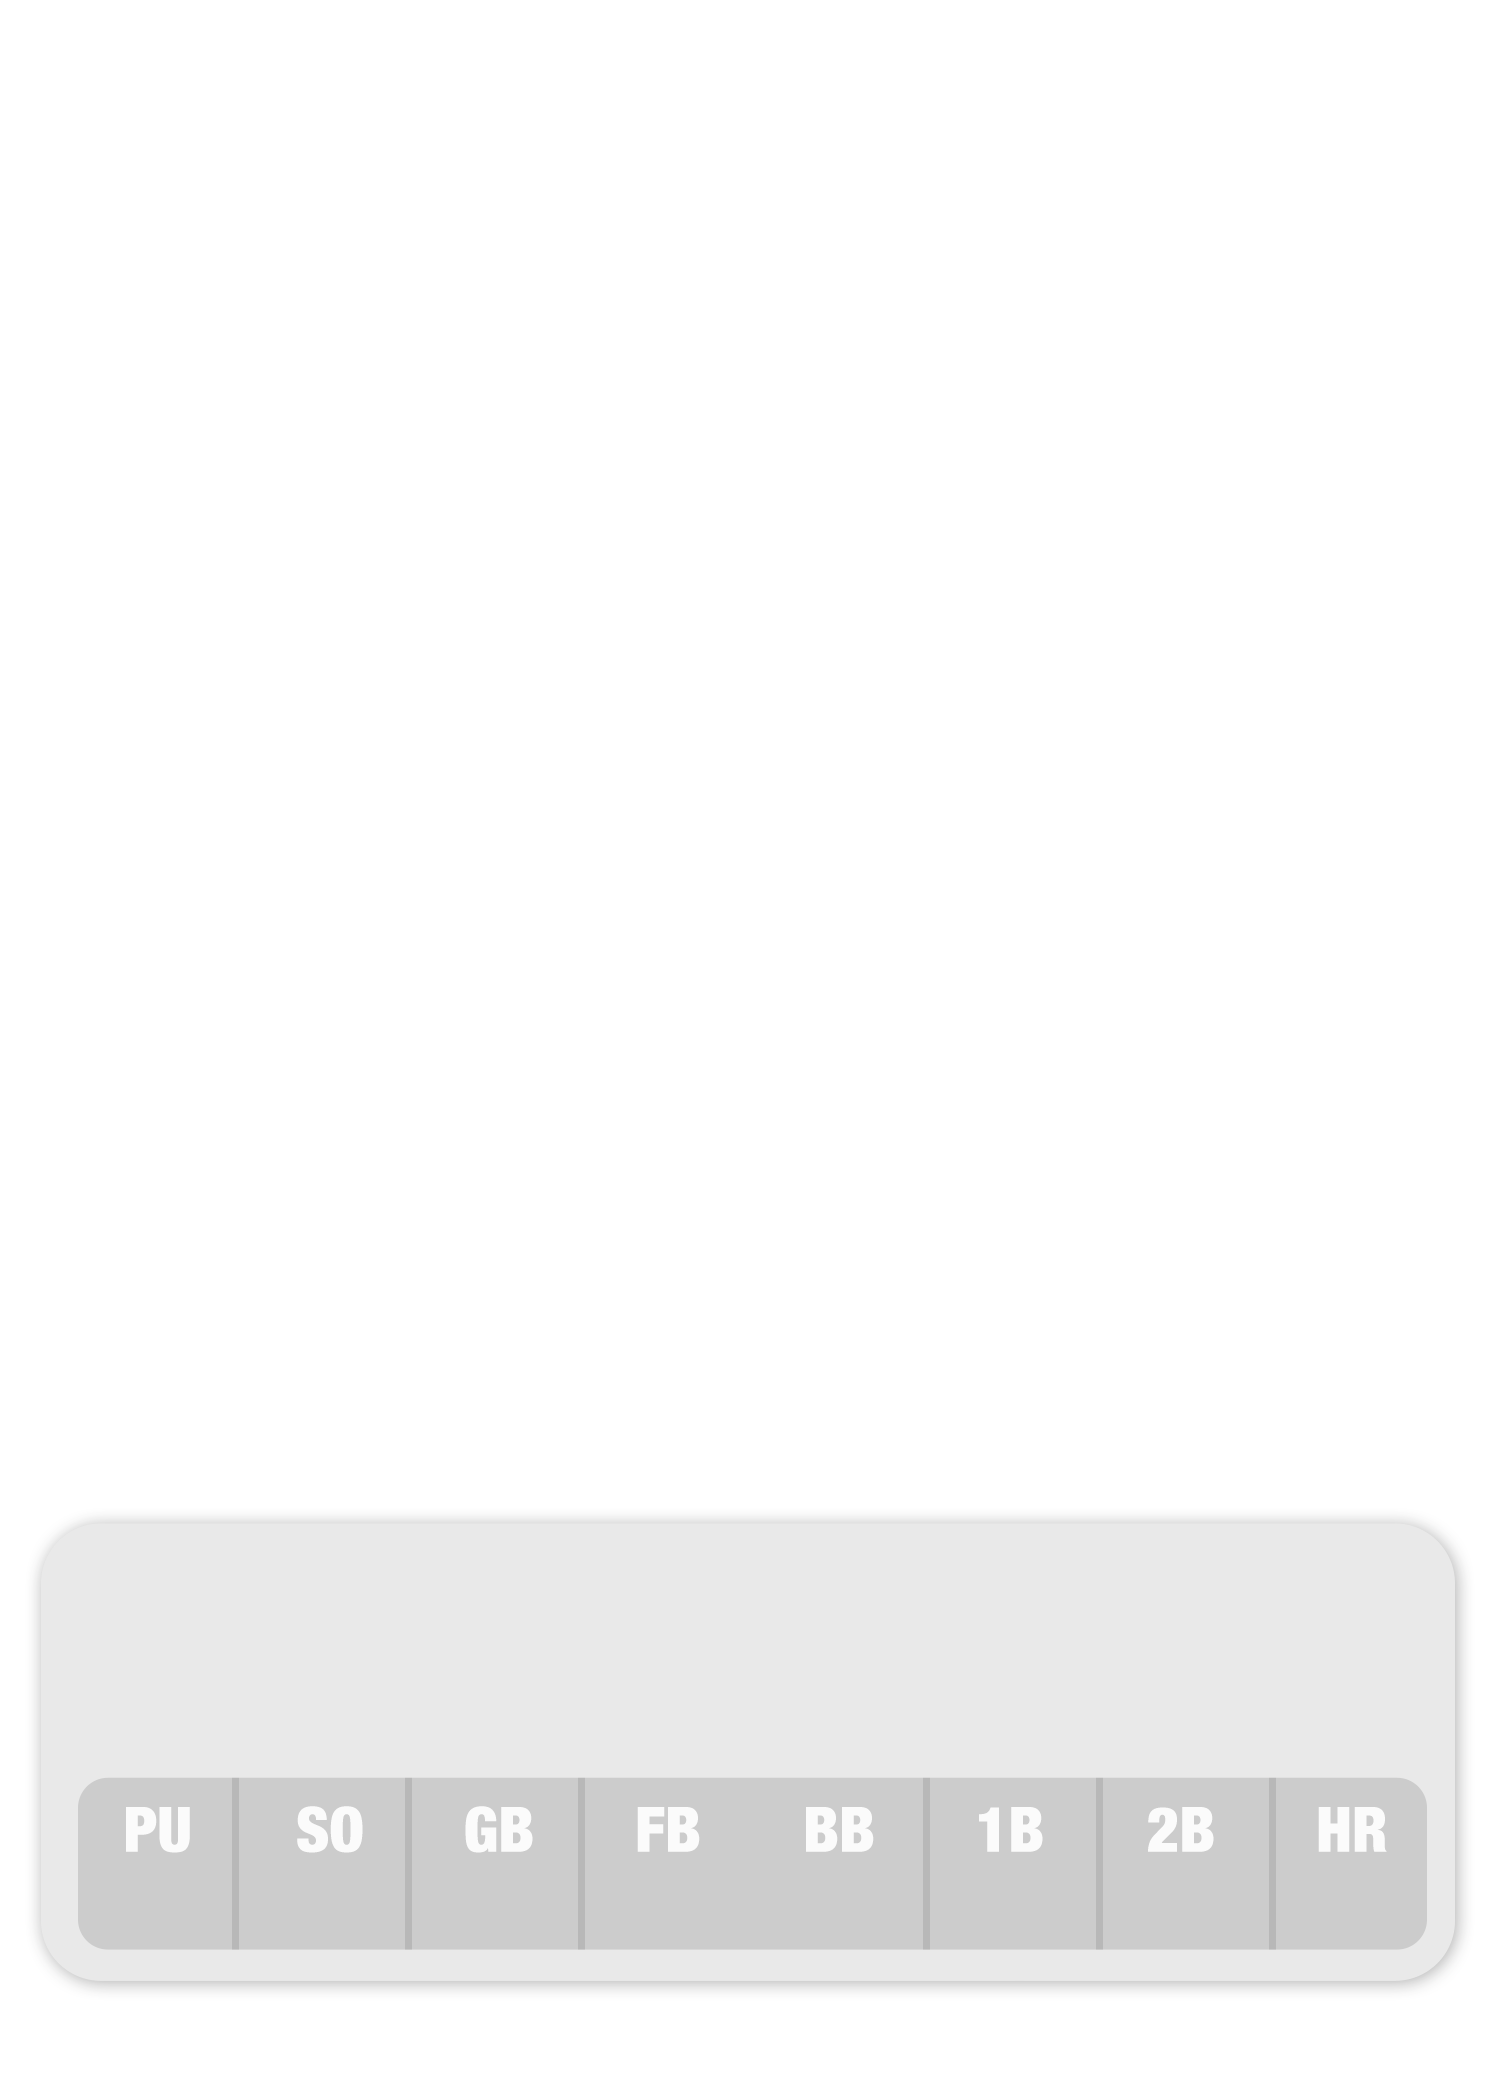
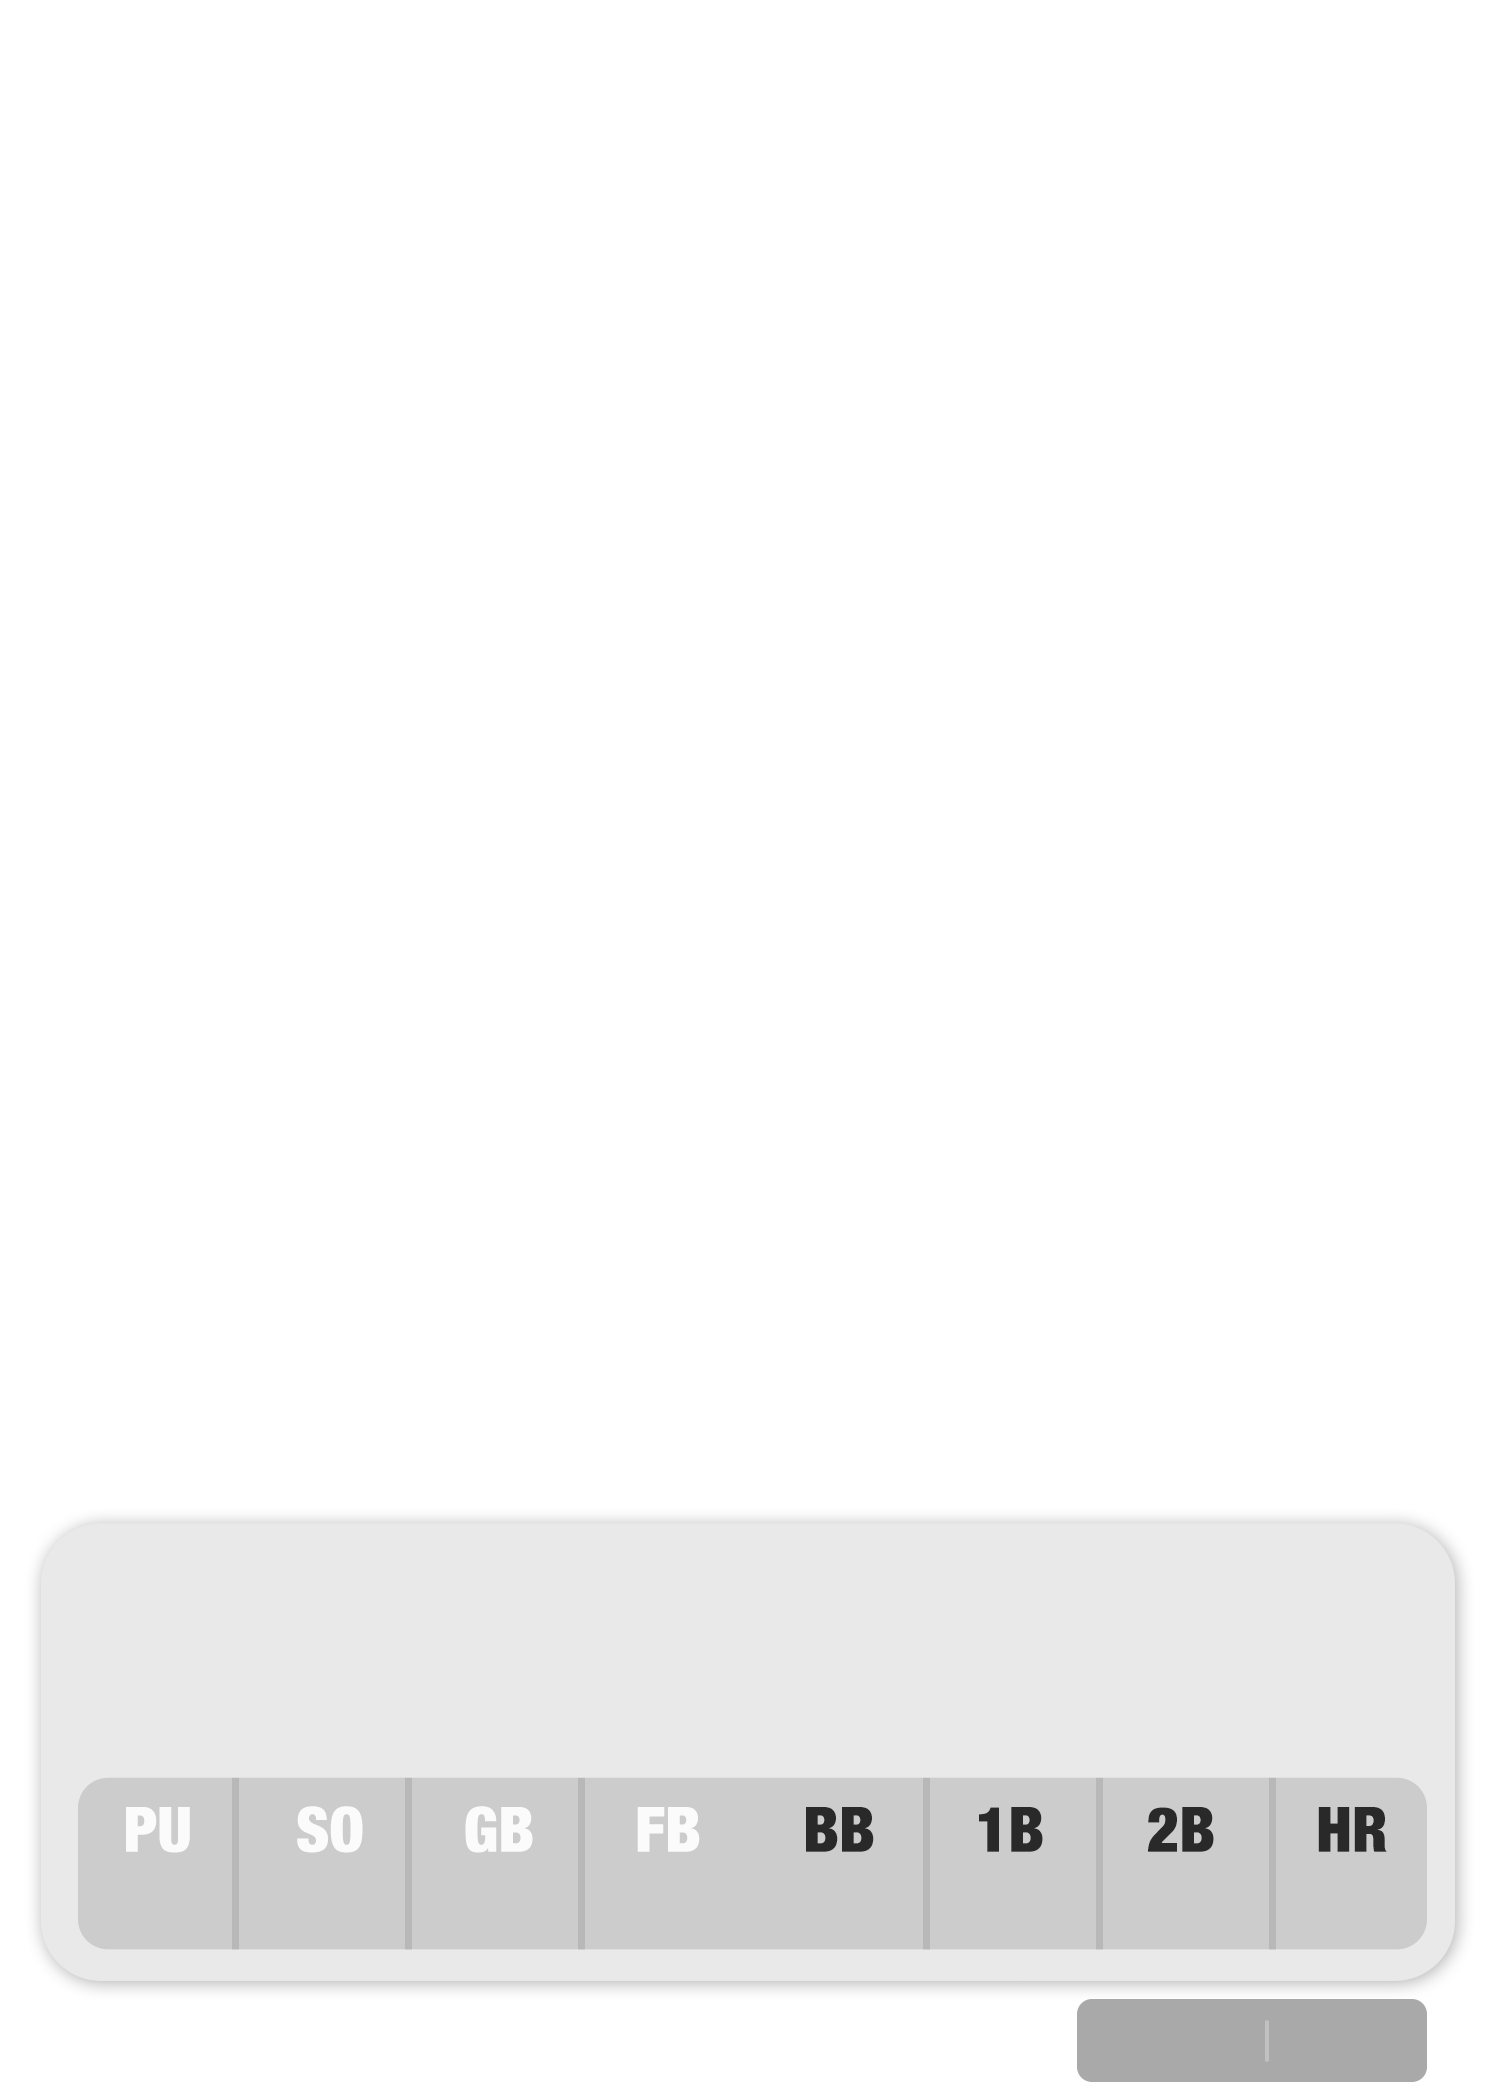
Update chart, metadata, sets, style for 2022 set

diff --git a/mlb_showdown_bot/showdown_player_card_generator.py b/mlb_showdown_bot/showdown_player_card_generator.py
@@ -1858,15 +1858,15 @@ class ShowdownPlayerCardGenerator:
 
         return accuracy_data
 
-    def __player_metadata_summary_text(self, is_horizontal=False, delimeter=' '):
+    def __player_metadata_summary_text(self, is_horizontal=False, return_as_list=False):
         """Creates a multi line string with all player metadata for card output.
 
         Args:
           is_horizontal: Optional boolean for horizontally formatted text (04/05)
-          delimeter: Optional delimeter (ex: ',' , '|') to separate categories
+          return_as_list: Boolean for return type
 
         Returns:
-          String of output text for player info + stats
+          String/list of output text for player info + stats
         """
         positions_string = self.__position_and_defense_as_string(is_horizontal=is_horizontal)
 
@@ -1874,13 +1874,20 @@ class ShowdownPlayerCardGenerator:
         speed = f'Speed {self.speed_letter} ({self.speed})' if int(self.context_year) < 2022 else f'SPD {self.speed}'
         ip_or_speed = speed if not self.is_pitcher else ip
         if is_horizontal:
-            final_text = '{points} PT. {delimeter} {item2} {delimeter} {hand} {delimeter} {item4}'.format(
-                points=self.points,
-                item2=positions_string if self.is_pitcher else speed,
-                hand=self.hand,
-                item4=ip if self.is_pitcher else positions_string,
-                delimeter=delimeter
-            )
+            if return_as_list:
+                final_text = [
+                    f'{self.points} PT.',
+                    positions_string if self.is_pitcher else speed,
+                    self.hand,
+                    (ip if self.is_pitcher else positions_string),
+                ]
+            else:
+                final_text = '{points} PT.   {item2}   {hand}   {item4}'.format(
+                    points=self.points,
+                    item2=positions_string if self.is_pitcher else speed,
+                    hand=self.hand,
+                    item4=ip if self.is_pitcher else positions_string
+                )
         else:
 
             final_text = """\
@@ -1894,7 +1901,8 @@ class ShowdownPlayerCardGenerator:
                 line3=ip_or_speed if self.is_pitcher else positions_string,
                 points=self.points
             )
-        final_text = final_text.upper() if self.context in ['2002','2004','2005'] else final_text
+        if not return_as_list:
+            final_text = final_text.upper() if self.context in ['2002','2004','2005'] else final_text
         return final_text
 
     def __position_and_defense_as_string(self, is_horizontal=False):
@@ -1979,6 +1987,12 @@ class ShowdownPlayerCardGenerator:
         else:
             chart_cords = sc.IMAGE_LOCATIONS['chart'][str(self.context_year)]
         player_image.paste(color, chart_cords, chart_image)
+
+        # STYLE (IF APPLICABLE)
+        if self.style != '':
+            style_img_path = os.path.join(os.path.dirname(__file__), 'templates', f'{self.style.upper()}.png')
+            style_img = Image.open(style_img_path)
+            player_image.paste(style_img,sc.IMAGE_LOCATIONS['style'][self.context_year],style_img)
 
         # BOT VERSION
         version_image = self.__version_image()
@@ -2354,6 +2368,11 @@ class ShowdownPlayerCardGenerator:
                 paste_location = (paste_location[0] + 15, paste_location[1])
 
             # ADD CHART ROUNDED RECT
+            container_img_black = Image.open(os.path.join(os.path.dirname(__file__), 'templates', f'{self.context_year}-ChartOutsContainer-{type}.png'))
+            container_img = self.__color_overlay_to_img(img=container_img_black,color=sc.TEAM_COLOR_PRIMARY[self.team])
+            text_img = Image.open(os.path.join(os.path.dirname(__file__), 'templates', f'{self.context_year}-ChartOutsText-{type}.png'))
+            template_image.paste(container_img, (0,0), container_img)
+            template_image.paste(text_img, (0,0), text_img)
         else:
             command_image_name = '{context}-{type}-{command}.png'.format(
                 context = year,
@@ -2638,45 +2657,45 @@ class ShowdownPlayerCardGenerator:
             # DONT WANT TO RETURN A COLOR (BECAUSE IT'S MULTI-COLORED)
             # PASS THE IMAGE ITSELF AS THE COLOR
             color = metadata_image
-        elif self.context_year in ['2004', '2005']:
-            # 2004 & 2005
-
-            metadata_font_path = os.path.join(os.path.dirname(__file__), 'fonts', 'Helvetica Neue 77 Bold Condensed.ttf')
-            metadata_font = ImageFont.truetype(metadata_font_path, size=144)
-            metadata_text_string = self.__player_metadata_summary_text(is_horizontal=True)
-            metadata_text = self.__text_image(
-                text = metadata_text_string,
-                size = (3600, 900),
-                font = metadata_font,
-                fill = sc.COLOR_WHITE,
-                rotation = 0,
-                alignment = "left",
-                padding = 0,
-                has_border = True,
-                border_color = sc.COLOR_BLACK,
-                border_size = 9
-            )
-            metadata_image = metadata_text.resize((1200,300), Image.ANTIALIAS)
-            # DONT WANT TO RETURN A COLOR (BECAUSE IT'S MULTI-COLORED)
-            # PASS THE IMAGE ITSELF AS THE COLOR
-            color = metadata_image
         else:
             # 2022+
-            metadata_font_path = os.path.join(os.path.dirname(__file__), 'fonts', 'Helvetica Neue 77 Bold Condensed.ttf')
-            metadata_font = ImageFont.truetype(metadata_font_path, size=160)
-            metadata_text_string = self.__player_metadata_summary_text(is_horizontal=True, delimeter=' ')
-            metadata_text = self.__text_image(
-                text = metadata_text_string,
-                size = (3600, 900),
-                font = metadata_font,
-                fill = sc.COLOR_WHITE,
-                rotation = 0,
-                alignment = "left",
-                padding = 0,
-            )
-            metadata_image = metadata_text.resize((1200,300), Image.ANTIALIAS)
-            # DONT WANT TO RETURN A COLOR (BECAUSE IT'S MULTI-COLORED)
-            # PASS THE IMAGE ITSELF AS THE COLOR
+            metadata_image = Image.new('RGBA', (1400, 200), 255)
+            metadata_font_path = os.path.join(os.path.dirname(__file__), 'fonts', 'HelveticaNeueCondensedBold.ttf')
+            metadata_font = ImageFont.truetype(metadata_font_path, size=170)
+            metadata_text_list = self.__player_metadata_summary_text(is_horizontal=True, return_as_list=True)
+            current_x_position = 0
+            for index, category in enumerate(metadata_text_list):
+                category_length = len(metadata_text_list)
+                is_last = (index + 1) == category_length
+                metadata_text = self.__text_image(
+                    text = category,
+                    size = (1500, 900),
+                    font = metadata_font,
+                    fill = sc.COLOR_WHITE,
+                    rotation = 0,
+                    alignment = "left",
+                    padding = 0,
+                )
+                metadata_text = metadata_text.resize((500,300), Image.ANTIALIAS)
+                metadata_image.paste(metadata_text, (int(current_x_position),0), metadata_text)
+                category_font_width = metadata_font.getsize(category)[0] / 3.0
+                current_x_position += category_font_width
+                if not is_last:
+                    # DIVIDER
+                    divider_text = self.__text_image(
+                        text = '|',
+                        size = (900, 900),
+                        font = metadata_font,
+                        fill = sc.COLOR_WHITE,
+                        rotation = 0,
+                        alignment = "left",
+                        padding = 0,
+                    )
+                    divider_text = divider_text.resize((300,300), Image.ANTIALIAS)
+                    metadata_image.paste((255,255,255,50), (int(current_x_position) + 30, 0), divider_text)
+                    current_x_position += 65
+                
+
             color = sc.COLOR_BLACK
 
         return metadata_image, color
@@ -2707,8 +2726,10 @@ class ShowdownPlayerCardGenerator:
         chart_string = ''
         # NEED IF 04/05
         chart_text = Image.new('RGBA',(6300,720))
-        chart_text_x = 150 if self.is_pitcher else 141
+        chart_text_addition = -20 if int(self.context_year) >= 2022 else 0
+        chart_text_x = 150 + chart_text_addition if self.is_pitcher else 141
         for category in self.__chart_categories():
+            is_out_category = category.lower() in ['pu','so','gb','fb']
             range = self.chart_ranges['{} Range'.format(category)]
             # 2004/2005 CHART IS HORIZONTAL. PASTE TEXT ONTO IMAGE INSTEAD OF STRING OBJECT.
             if is_horizontal:
@@ -2723,8 +2744,9 @@ class ShowdownPlayerCardGenerator:
                     border_color = sc.COLOR_BLACK,
                     border_size = 9
                 )
-                chart_text.paste(range_text, (chart_text_x, 0), range_text)
-                pitcher_spacing = 531 if is_wotc else 515
+                color_range = range_text if is_wotc or is_out_category else sc.COLOR_BLACK
+                chart_text.paste(color_range, (chart_text_x, 0), range_text)
+                pitcher_spacing = 531 if is_wotc else 510
                 hitter_spacing = 468 if is_wotc else 445
                 chart_text_x += pitcher_spacing if self.is_pitcher else hitter_spacing
             else:
@@ -2733,9 +2755,8 @@ class ShowdownPlayerCardGenerator:
         # CREATE FINAL CHART IMAGE
         if is_horizontal:
             # COLOR IS TEXT ITSELF
-            is_wotc = self.context_year in ['2004','2005']
             chart_text = chart_text.resize((2100,240), Image.ANTIALIAS)
-            color = chart_text if is_wotc else sc.COLOR_BLACK
+            color = chart_text
         else:
             spacing = int(sc.TEXT_SIZES['chart_spacing'][self.context_year])
             chart_text = self.__text_image(
@@ -2764,7 +2785,8 @@ class ShowdownPlayerCardGenerator:
 
         # FONT FOR SET
         helvetica_neue_cond_bold_path = os.path.join(os.path.dirname(__file__), 'fonts', 'Helvetica Neue 77 Bold Condensed.ttf')
-        font_size = 100 if self.is_multi_year and self.context_year == '2003' else 135
+        base_font_size = 135 if int(self.context_year) < 2022 else 180
+        font_size = 100 if self.is_multi_year and self.context_year == '2003' else base_font_size
         set_font = ImageFont.truetype(helvetica_neue_cond_bold_path, size=font_size)
 
         set_image = Image.new('RGBA', (1500, 2100), 255)
@@ -2784,8 +2806,9 @@ class ShowdownPlayerCardGenerator:
             # DIFFERENT STYLES BETWEEN NUMBER AND SET
             # CARD YEAR
             year_suffix = "" if self.is_multi_year and self.context_year in ['2004', '2005'] else f"'{str(self.year)[2:4]}"
+            year_text = year_suffix if int(self.context_year) < 2022 else str(self.year)
             year_text = self.__text_image(
-                text = year_suffix,
+                text = year_text,
                 size = (450, 450),
                 font = set_font,
                 alignment = "left"
@@ -3101,17 +3124,18 @@ class ShowdownPlayerCardGenerator:
         font = ImageFont.truetype(font_path, size=135)
 
         # ADD TEXT
+        fill_color = sc.TEAM_COLOR_PRIMARY[self.team]
         command_text_img = self.__text_image(
             text = str(self.chart['command']),
             size = (188,210),
             font = font,
             alignment = "center",
-            fill = 255, # TODO: FILL WITH TEAM COLOR
+            fill = fill_color, # TODO: FILL WITH TEAM COLOR
             has_border=True,
             border_color=sc.COLOR_BLACK,
             border_size=3,
         )
-        paste_location = (50,55) if self.is_pitcher else (0,24)
+        paste_location = (50,55) if self.is_pitcher else (0,28)
         background_img.paste(command_text_img, paste_location, command_text_img)
 
         # ADD "+" if pitcher
@@ -3122,7 +3146,7 @@ class ShowdownPlayerCardGenerator:
                 size = (188,210),
                 font = font_plus,
                 alignment = "center",
-                fill = 255, # TODO: FILL WITH TEAM COLOR
+                fill = fill_color, # TODO: FILL WITH TEAM COLOR
                 has_border=True,
                 border_color=sc.COLOR_BLACK,
                 border_size=3,
@@ -3148,6 +3172,24 @@ class ShowdownPlayerCardGenerator:
         file_age_mins = (datetime_current - datetime_uploaded).total_seconds() / 60.0
 
         return file_age_mins >= 5.0
+
+    def __color_overlay_to_img(self,img,color):
+        """Adds mask to image with input color.
+
+        Args:
+          img: PIL image to apply color overlay to
+          color: HEX color for overlay
+
+        Returns:
+            PIL image with color overlay
+        """
+
+        # Create colored image the same size and copy alpha channel across
+        alpha = img.getchannel('A')
+        colored_img = Image.new('RGBA', img.size, color=color)
+        colored_img.putalpha(alpha) 
+
+        return colored_img
 
 # ------------------------------------------------------------------------
 # IMAGE QUERIES

diff --git a/mlb_showdown_bot/showdown_constants.py b/mlb_showdown_bot/showdown_constants.py
@@ -1985,7 +1985,7 @@ IMAGE_LOCATIONS = {
         '2003': (825,1530),
         '2004': (282,1710),
         '2005': (282,1710),
-        '2022': (325,1690),
+        '2022': (330,1670),
     },
     'set': {
         '2000': (129,2016),
@@ -1994,13 +1994,13 @@ IMAGE_LOCATIONS = {
         '2003': (93,1785),
         '2004': (1344,1911),
         '2005': (1344,1911),
-        '2022': (1344,2000),
+        '2022': (1290,2020),
     },
     'number': {
         '2003': (120,1785),
         '2004': (1191,1911),
         '2005': (1191,1911),
-        '2022': (1191,2000),
+        '2022': (1120,2020),
     },
     'super_season': {
         '2000': (1200,1035),
@@ -2018,7 +2018,7 @@ IMAGE_LOCATIONS = {
         '2003': (752,1810),
         '2004': (1355,2069),
         '2005': (1355,2069),
-        '2022': (1355,2069),
+        '2022': (1355,2100),
     },
     'expansion': {
         '2000': (1287,1855),
@@ -2038,6 +2038,9 @@ IMAGE_LOCATIONS = {
         '2005': (0,0),
         '2022': (80,1540),
     },
+    'style': {
+        '2022': (60,1995),
+    }
 }
 
 """ LIST OF ICON IMAGE COORDINATES FOR EACH ICON INDEX """
@@ -2240,6 +2243,11 @@ TEAM_LOGO_ALTERNATES = {
     'WSN': {
         '1': list(range(2005,2011)),
     },
+}
+
+TEAM_COLOR_PRIMARY = {
+    'NYM': (252, 89, 16, 255),
+    'SDP': (249, 182, 1, 255),
 }
 
 G_DRIVE_PLAYER_IMAGE_FOLDERS = {
